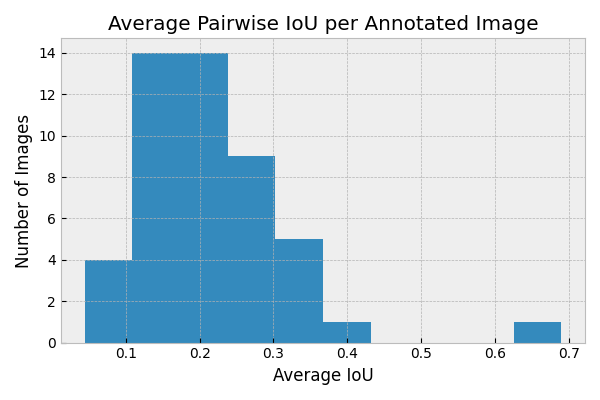
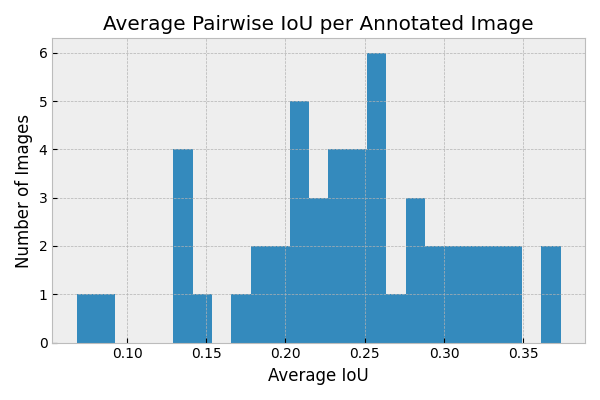
add new graphs

diff --git a/medimg-saliency-benchmark/annotations.py b/medimg-saliency-benchmark/annotations.py
@@ -87,7 +87,8 @@ def sanitize(df):
         r".*studente.*":"Medical Student",
         r"specializzand.*":"Resident",
         r".*radiolog.*":"Radiologist",
-        r".*medico.*":"Physician"
+        r".*medico.*":"Physician",
+        r".*pneumolog.*":"Pneumologist"
     }.items():
         df.annotator_profession = df.annotator_profession.str.replace(
             pat=pat,
@@ -212,7 +213,7 @@ def compute_cross_ious(df):
     
     # Plot histogram
     plt.figure(figsize=(6, 4))
-    plt.hist(results.groupby("image_name").iou.mean())
+    plt.hist(results.groupby("image_name").iou.mean(), bins=25)
     plt.title("Average Pairwise IoU per Annotated Image")
     plt.ylabel("Number of Images")
     plt.xlabel("Average IoU")
